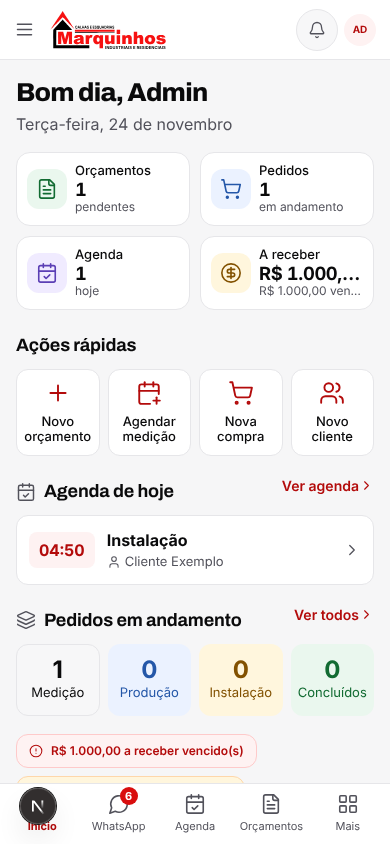
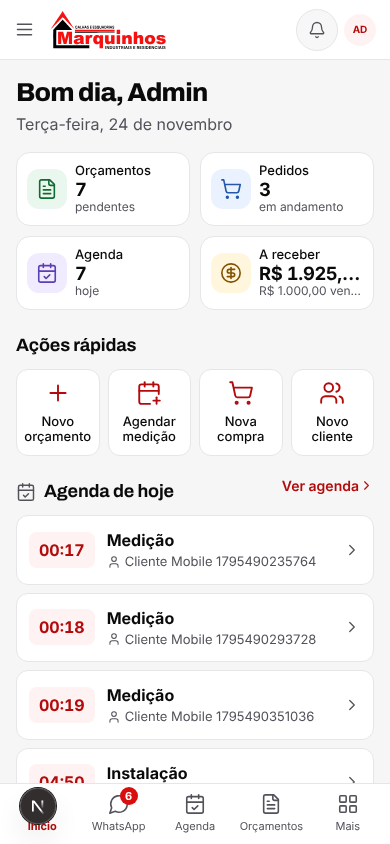
feat(ux): agenda, editor de orçamento e WhatsApp desktop no padrão das referências
- agenda no celular: título com ícone + Agendar, Dia/Semana/Mês, barra de data, cartões com barra colorida, tipo, cliente e botão de local
- editor de calhas: cabeçalho enxuto e barra fixa com total e salvar (cálculo intacto)
- WhatsApp desktop: cabeçalho do chat compacto, nome sempre visível
- correção de overflow a 320px no início

Claude-Session: https://claude.ai/code/session_019r53HgSe1yoioPFHkHVqRt

diff --git a/components/mobile-agenda.tsx b/components/mobile-agenda.tsx
@@ -26,16 +26,16 @@ export function MobileAgenda({cursor,view,events,loading,onCursor,onView,onNew,o
  const cells=Array.from({length:count},(_,i)=>add(start,i));
  function navigate(n:number){onCursor(view==='mes'?new Date(cursor.getFullYear(),cursor.getMonth()+n,1):add(cursor,n*(view==='semana'?7:1)))}
  return <div className="mobile-agenda" data-testid="mobile-agenda">
-  <header className="mobile-agenda-heading"><div><p className="mobile-eyebrow">OPERAÇÃO</p><h1>Agenda</h1><p>Seu dia, com tudo à mão.</p></div><div className="mobile-agenda-heading-actions"><button className="mobile-icon-button" onClick={onReload} disabled={loading} aria-label="Atualizar agenda"><RefreshCw size={19} className={loading?'animate-spin':''}/></button><button className="mobile-icon-button is-primary" onClick={()=>onNew(key)} aria-label="Novo compromisso"><Plus size={23}/></button></div></header>
-  <div className="mobile-agenda-summary"><div><span>Compromissos no dia</span><strong>{all.length}</strong></div><div><span>Concluídos</span><strong>{all.filter(e=>isAgendaDone(e.status)).length}<small>/{all.length}</small></strong></div></div>
-  <div className="mobile-segmented" aria-label="Visualização da agenda">{(['mes','semana','dia'] as View[]).map(v=><button key={v} aria-pressed={v===view} onClick={()=>onView(v)}>{v==='mes'?'Mês':v==='semana'?'Semana':'Dia'}</button>)}</div>
-  <section className="mobile-calendar" aria-label="Calendário"><div className="mobile-calendar-heading"><button className="mobile-icon-button" aria-label="Período anterior" onClick={()=>navigate(-1)}><ChevronLeft size={20}/></button><h2>{cursor.toLocaleDateString('pt-BR',{month:'long',year:'numeric'})}</h2><button className="mobile-icon-button" aria-label="Próximo período" onClick={()=>navigate(1)}><ChevronRight size={20}/></button></div>
-   {view!=='dia'&&<><div className="mobile-calendar-weekdays" aria-hidden="true">{days.map((d,i)=><span key={i}>{d}</span>)}</div><div className="mobile-calendar-days">{cells.map(d=>{const k=dateKey(d),items=byDay.get(k)??[];return <button key={k} className={`mobile-calendar-day${k===key?' is-selected':''}${k===today?' is-today':''}${d.getMonth()!==cursor.getMonth()?' is-outside':''}`} aria-label={`${dateLabel(d)}, ${items.length} compromisso${items.length===1?'':'s'}`} aria-pressed={k===key} onClick={()=>onCursor(d)}><span>{d.getDate()}</span><i aria-hidden="true" className="mobile-day-dots">{items.filter(e=>e.status!=='cancelado').slice(0,3).map(e=><b key={`${e.source}-${e.id}`} data-type={e.type}/>)}</i></button>})}</div></>}
+  <header className="mobile-agenda-heading"><h1><CalendarDays size={26}/>Agenda</h1><div className="mobile-agenda-heading-actions"><button className="mobile-icon-button" onClick={onReload} disabled={loading} aria-label="Atualizar agenda"><RefreshCw size={19} className={loading?'animate-spin':''}/></button><button className="mobile-new-button" onClick={()=>onNew(key)} aria-label="Novo compromisso"><Plus size={19}/>Agendar</button></div></header>
+  <div className="mobile-segmented" aria-label="Visualização da agenda">{(['dia','semana','mes'] as View[]).map(v=><button key={v} aria-pressed={v===view} onClick={()=>onView(v)}>{v==='mes'?'Mês':v==='semana'?'Semana':'Dia'}</button>)}</div>
+  <div className="mobile-date-nav"><button aria-label="Período anterior" onClick={()=>navigate(-1)}><ChevronLeft size={22}/></button><button className="mobile-date-label" onClick={()=>onCursor(new Date())} aria-label="Voltar para hoje"><CalendarDays size={20}/>{view==='dia'?(key===today?'Hoje, ':'')+cursor.toLocaleDateString('pt-BR',{day:'numeric',month:'short',weekday:'short'}).replace('.',''):cursor.toLocaleDateString('pt-BR',{month:'long',year:'numeric'})}</button><button aria-label="Próximo período" onClick={()=>navigate(1)}><ChevronRight size={22}/></button></div>
+  {view!=='dia'&&<section className="mobile-calendar" aria-label="Calendário">
+   <><div className="mobile-calendar-weekdays" aria-hidden="true">{days.map((d,i)=><span key={i}>{d}</span>)}</div><div className="mobile-calendar-days">{cells.map(d=>{const k=dateKey(d),items=byDay.get(k)??[];return <button key={k} className={`mobile-calendar-day${k===key?' is-selected':''}${k===today?' is-today':''}${d.getMonth()!==cursor.getMonth()?' is-outside':''}`} aria-label={`${dateLabel(d)}, ${items.length} compromisso${items.length===1?'':'s'}`} aria-pressed={k===key} onClick={()=>onCursor(d)}><span>{d.getDate()}</span><i aria-hidden="true" className="mobile-day-dots">{items.filter(e=>e.status!=='cancelado').slice(0,3).map(e=><b key={`${e.source}-${e.id}`} data-type={e.type}/>)}</i></button>})}</div></>
    <button className="mobile-calendar-today" onClick={()=>onCursor(new Date())}>Voltar para hoje</button>
-  </section>
+  </section>}
   <div className="mobile-day-heading"><div><p>{key===today?'Hoje':cursor.toLocaleDateString('pt-BR',{weekday:'long'})}</p><h2>{cursor.toLocaleDateString('pt-BR',{day:'numeric',month:'long'})}</h2></div><button onClick={()=>onNew(key)} className="mobile-inline-button"><Plus size={16}/>Agendar</button></div>
   <div className="mobile-agenda-filters" aria-label="Filtrar compromissos">{([['ativos','Pendentes'],['todos','Todos'],['concluidos','Concluídos']] as const).map(([v,label])=><button key={v} aria-pressed={filter===v} onClick={()=>setFilter(v)}>{label}</button>)}</div>
-  <div className="mobile-appointments">{visible.map(e=><button key={`${e.source}-${e.id}`} className="mobile-appointment" data-type={e.type} onClick={()=>onSelect(e)} aria-label={`Abrir compromisso: ${e.title}`}><span className="mobile-appointment-time">{time(e.starts_at)}<i/></span><span className="mobile-appointment-info"><small>{typeLabels[e.type]??'Compromisso'}</small><strong>{e.title}</strong>{e.client_name&&e.client_name!==e.title&&<span>{e.client_name}</span>}<em>{statuses[e.status]??e.status.replaceAll('_',' ')}</em>{e.responsible_name&&<span className="mobile-appointment-owner"><User size={12}/>{e.responsible_name}</span>}</span><ChevronRight size={17}/></button>)}{!visible.length&&<div className="mobile-agenda-empty"><CalendarDays size={26}/><h3>{all.length?'Nenhum compromisso neste filtro':'Seu dia está livre'}</h3><p>{all.length?'Toque em Todos para ver os outros compromissos.':'Agende uma medição, instalação ou tarefa para este dia.'}</p><button className="mobile-inline-button" onClick={()=>all.length?setFilter('todos'):onNew(key)}>{all.length?'Ver todos':'Agendar compromisso'}</button></div>}</div>
+  <div className="mobile-appointments">{visible.map(e=><div key={`${e.source}-${e.id}`} className="mobile-appointment" data-type={e.type}><button className="mobile-appointment-open" onClick={()=>onSelect(e)} aria-label={`Abrir compromisso: ${e.title}`}><span className="mobile-appointment-time">{time(e.starts_at)}</span><span className="mobile-appointment-info"><strong>{typeLabels[e.type]??'Compromisso'}</strong>{e.client_name&&<span><User size={14}/>{e.client_name}</span>}{e.title&&e.title!==(typeLabels[e.type]??'')&&e.title!==e.client_name&&<small>{e.title}</small>}<em>{statuses[e.status]??e.status.replaceAll('_',' ')}</em></span></button><button className="mobile-appointment-pin" onClick={()=>onSelect(e)} aria-label={`Ver local e contato: ${e.title}`}><MapPin size={20}/></button></div>)}{!visible.length&&<div className="mobile-agenda-empty"><CalendarDays size={26}/><h3>{all.length?'Nenhum compromisso neste filtro':'Seu dia está livre'}</h3><p>{all.length?'Toque em Todos para ver os outros compromissos.':'Agende uma medição, instalação ou tarefa para este dia.'}</p><button className="mobile-inline-button" onClick={()=>all.length?setFilter('todos'):onNew(key)}>{all.length?'Ver todos':'Agendar compromisso'}</button></div>}</div>
  </div>
 }
 export function MobileEventSheet({event,onClose,onStatusChange}:{event:AgendaEvent;onClose:()=>void;onStatusChange:(id:string,status:string)=>Promise<void>}){

diff --git a/app/mobile.css b/app/mobile.css
@@ -140,7 +140,7 @@
  .mobile-agenda-summary small { color: var(--text-muted); font-size: 16px; font-weight: 500; margin-left: 3px; }
  .mobile-segmented { display: flex; padding: 5px; gap: 4px; background: var(--surface); border: 1px solid var(--border); border-radius: 17px; margin-bottom: 16px; }
  .mobile-segmented > button { flex: 1; min-height: 42px; border-radius: 12px; font-size: 13px; font-weight: 650; color: var(--text-muted); }
- .mobile-segmented > button[aria-pressed=true] { background: var(--text); color: var(--surface); }
+ .mobile-segmented > button[aria-pressed=true] { background: var(--brand-strong); color: var(--on-brand); }
  .mobile-calendar { border-radius: 23px; border: 1px solid var(--border); background: var(--surface); padding: 10px 8px 7px; }
  .mobile-calendar-heading { display: flex; align-items: center; justify-content: space-between; gap: 8px; padding: 0 2px 8px; }
  .mobile-calendar-heading h2 { font-size: 16px; font-weight: 750; text-transform: capitalize; }
@@ -265,4 +265,57 @@
 @media screen and (max-width: 767px) {
  .mobile-quote-workspace > section { display: none; }
  .mobile-quote-workspace header .login-kicker { display: none; }
+}
+
+/* Agenda no celular: cabeçalho, segmentos, barra de data e cartões como nas referências. */
+@media screen and (max-width: 767px) {
+ .mobile-agenda-heading { margin-bottom: 14px; }
+ .mobile-agenda-heading h1 { display: flex; align-items: center; gap: 10px; margin: 0; font-size: 22px; font-weight: 800; }
+ .mobile-agenda-heading h1 svg { color: var(--text-muted); }
+ .mobile-new-button { display: inline-flex; align-items: center; gap: 6px; min-height: 44px; padding: 0 16px; border-radius: 12px; background: var(--brand-strong); color: var(--on-brand); font-size: 15px; font-weight: 700; }
+ .mobile-segmented { border-radius: 12px; margin-bottom: 12px; }
+ .mobile-segmented > button { border-radius: 9px; }
+ .mobile-segmented > button[aria-pressed=true] { background: var(--brand-strong); color: var(--on-brand); }
+ .mobile-date-nav { display: flex; align-items: center; justify-content: space-between; min-height: 52px; margin-bottom: 12px; border: 1px solid var(--border); border-radius: 12px; background: var(--surface); }
+ .mobile-date-nav > button { display: inline-flex; align-items: center; justify-content: center; min-width: 48px; min-height: 48px; color: var(--text); }
+ .mobile-date-label { flex: 1; gap: 8px; font-size: 16px; font-weight: 700; text-transform: capitalize; }
+ .mobile-calendar { border-radius: 12px; margin-bottom: 12px; }
+ .mobile-day-heading { margin: 14px 0 8px; }
+ .mobile-agenda-filters button[aria-pressed=true] { background: var(--brand-strong); border-color: var(--brand-strong); color: var(--on-brand); }
+ .mobile-appointments { gap: 10px; }
+ .mobile-appointment { position: relative; display: flex; align-items: stretch; gap: 0; padding: 0; overflow: hidden; border: 1px solid var(--border); border-radius: 12px; background: var(--surface); }
+ .mobile-appointment::before { content: ''; width: 4px; flex-shrink: 0; background: var(--agenda-blue); }
+ .mobile-appointment[data-type=instalacao]::before { background: #27aa77; }
+ .mobile-appointment[data-type=reuniao]::before { background: #ab78e8; }
+ .mobile-appointment[data-type=producao]::before { background: #e8892a; }
+ .mobile-appointment[data-type=compra]::before { background: #d6a400; }
+ .mobile-appointment-open { display: flex; align-items: flex-start; gap: 14px; flex: 1; min-width: 0; padding: 14px 8px 14px 12px; text-align: left; }
+ .mobile-appointment-time { min-width: 52px; font-size: 18px; font-weight: 700; font-variant-numeric: tabular-nums; }
+ .mobile-appointment-info { display: flex; flex-direction: column; align-items: flex-start; gap: 4px; min-width: 0; flex: 1; }
+ .mobile-appointment-info > strong { font-size: 17px; font-weight: 700; }
+ .mobile-appointment-info > span { display: flex; align-items: center; gap: 5px; font-size: 14px; color: var(--text-muted); }
+ .mobile-appointment-info > small { font-size: 13px; color: var(--text-muted); text-transform: none; letter-spacing: 0; }
+ .mobile-appointment-pin { display: inline-flex; align-items: center; justify-content: center; align-self: center; width: 44px; height: 44px; margin-right: 10px; border: 1px solid var(--border); border-radius: 10px; background: var(--surface-2); color: var(--text-muted); flex-shrink: 0; }
+}
+@media screen and (max-width: 767px) {
+ .agenda-stack { display: flex; flex-direction: column; }
+ .agenda-stack > .agenda-after { order: 2; margin-top: 18px; }
+}
+
+/* Editor de orçamento no celular: cabeçalho enxuto e barra fixa com total e salvar (layout apenas; cálculo intacto). */
+@media screen and (max-width: 767px) {
+ .quote-editor-head { margin-bottom: 12px; gap: 0; }
+ .quote-editor-head p, .quote-editor-head > span { display: none; }
+ .quote-editor-head h1 { margin: 0; font-size: 24px; }
+ .quote-save-bar { position: fixed; left: 0; right: 0; bottom: calc(60px + env(safe-area-inset-bottom)); z-index: 24; display: flex; align-items: center; justify-content: space-between; gap: 12px; padding: 10px 16px; border-top: 1px solid var(--border); background: var(--surface); }
+ .quote-save-total { min-width: 0; }
+ .quote-save-total p:first-child { font-size: 11px; }
+ .quote-save-total p:last-child { margin: 0; font-size: 20px; line-height: 1.2; white-space: nowrap; }
+ .quote-save-bar > .button { width: auto; flex-shrink: 0; min-height: 46px; padding: 0 18px; }
+ .quote-save-bar { margin: 0; }
+ .app-content:has(.quote-save-bar) { padding-bottom: calc(150px + env(safe-area-inset-bottom)); }
+}
+@media screen and (max-width: 767px) {
+ .mh-list > li, .mh-event { min-width: 0; max-width: 100%; }
+ .mh-kpis > a, .mh-actions > a, .mh-stages > a { min-width: 0; }
 }

diff --git a/components/atendimento-page.tsx b/components/atendimento-page.tsx
@@ -536,22 +536,22 @@ function Conversa({ detail, aiActive, officialWindow, visible, labels, onBack, o
           className={cn("hidden items-center gap-1 rounded-full px-3 py-1.5 text-xs font-bold md:flex", c.aiPaused ? "wa-chip" : "wa-send")}
           title={c.aiPaused ? "A Lia volta a responder este cliente" : "Você assume e a Lia para de responder"}
         >
-          <Bot className="h-4 w-4" /> <span className="hidden sm:inline">{c.aiPaused ? "Devolver p/ Lia" : "Assumir"}</span>
+          <Bot className="h-4 w-4" /> <span className="hidden 2xl:inline">{c.aiPaused ? "Devolver p/ Lia" : "Assumir"}</span>
         </button>
         <select value={c.status} disabled={mudandoStatus} aria-label="Status da conversa" onChange={(e) => mudarStatus(e.target.value as ConversationStatus)}
-          className="wa-chip hidden rounded-full px-2 py-1.5 text-xs font-bold lg:block">
+          className="wa-chip hidden rounded-full px-2 py-1.5 text-xs font-bold 2xl:block">
           {Object.entries(STATUS_LABEL).map(([k, l]) => <option key={k} value={k}>{l}</option>)}
         </select>
         <LabelMenu conversationId={c.id} current={labels} onChanged={onChanged} />
         {c.phone && !c.phone.includes("@") && <a href={`tel:+${c.phone.replace(/\D/g, "")}`} className="wa-row wa-muted rounded-full p-2" title="Ligar" aria-label={`Ligar para ${c.name}`}><Phone className="h-5 w-5" /></a>}
 <div className="hidden items-center gap-0.5 md:flex">
-        <button onClick={() => setTransferir(v => !v)} className="wa-row wa-muted rounded-full p-2" title="Transferir conversa" aria-label="Transferir conversa"><ArrowRightLeft className="h-4 w-4" /></button>
+        <button onClick={() => setTransferir(v => !v)} className="wa-row wa-muted hidden rounded-full p-2 2xl:block" title="Transferir conversa" aria-label="Transferir conversa"><ArrowRightLeft className="h-4 w-4" /></button>
         <button aria-label="Pesquisar nesta conversa" title="Pesquisar nesta conversa" onClick={() => { setPesquisando(v => !v); setBuscaMensagem(""); }} className="wa-row wa-muted rounded-full p-2"><Search className="h-4 w-4" /></button>
-        <button aria-label="Marcar como não lida" title="Marcar como não lida" onClick={onUnread} className="wa-row wa-muted rounded-full p-2"><Mail className="h-4 w-4" /></button>
+        <button aria-label="Marcar como não lida" title="Marcar como não lida" onClick={onUnread} className="wa-row wa-muted hidden rounded-full p-2 2xl:block"><Mail className="h-4 w-4" /></button>
         <button
           disabled={arquivando}
           onClick={() => startArquivo(async () => { const r = await setConversationArchived(c.id, !c.archived); setErro(r.error ?? null); onChanged(); })}
-          className="wa-row wa-muted hidden rounded-full p-2 sm:block"
+          className="wa-row wa-muted hidden rounded-full p-2 2xl:block"
           title={c.archived ? "Desarquivar conversa" : "Arquivar conversa"} aria-label={c.archived ? "Desarquivar conversa" : "Arquivar conversa"}
         >
           {c.archived ? <ArchiveRestore className="h-4 w-4" /> : <Archive className="h-4 w-4" />}
@@ -559,7 +559,7 @@ function Conversa({ detail, aiActive, officialWindow, visible, labels, onBack, o
         <button onClick={onPanel} aria-label="Abrir ficha do cliente" title="Ficha do cliente" className="wa-row wa-muted rounded-full p-2"><PanelRightOpen className="h-4 w-4" /></button>
         </div>
         <DropdownMenu.Root>
-          <DropdownMenu.Trigger asChild><button aria-label="Mais ações da conversa" className="wa-row wa-muted rounded-full p-2 md:hidden"><MoreVertical className="h-5 w-5" /></button></DropdownMenu.Trigger>
+          <DropdownMenu.Trigger asChild><button aria-label="Mais ações da conversa" className="wa-row wa-muted rounded-full p-2 2xl:hidden"><MoreVertical className="h-5 w-5" /></button></DropdownMenu.Trigger>
           <DropdownMenu.Portal><DropdownMenu.Content align="end" sideOffset={4} className="z-50 min-w-56 rounded-xl border border-sand bg-surface p-1.5 text-sm text-ink shadow-xl">
             <DropdownMenu.Item onSelect={onPanel} className="flex cursor-pointer items-center gap-3 rounded-lg px-3 py-2.5 outline-none focus:bg-cream"><PanelRightOpen className="h-4 w-4" />Ficha do cliente</DropdownMenu.Item>
             {(aiActive || !c.aiPaused) && <DropdownMenu.Item onSelect={() => startIa(async () => { const r = await setConversationAi(c.id, c.aiPaused); setErro(r.error ?? null); onChanged(); })} className="flex cursor-pointer items-center gap-3 rounded-lg px-3 py-2.5 outline-none focus:bg-cream"><Bot className="h-4 w-4" />{c.aiPaused ? "Devolver para a Lia" : "Assumir conversa"}</DropdownMenu.Item>}

diff --git a/components/gutter-quote.tsx b/components/gutter-quote.tsx
@@ -386,7 +386,7 @@ export function GutterQuote({
 
   return (
     <div className="mx-auto max-w-[1400px]">
-      <div className="mb-7 flex flex-col justify-between gap-3 sm:flex-row sm:items-end">
+      <div className="quote-editor-head mb-7 flex flex-col justify-between gap-3 sm:flex-row sm:items-end">
         <div>
           <p className="text-xs font-bold uppercase tracking-[.22em] text-forest">Calculadora técnica</p>
           <h1 className="mt-2 text-3xl font-black">
@@ -593,14 +593,16 @@ export function GutterQuote({
                 onChange={e => setInstallationDeadline(e.target.value)}
                 placeholder="Ex: Até 15 dias após aprovação" />
             </div>
-            <div className="border-t pt-4">
-              <p className="text-xs font-bold uppercase tracking-wider text-ink/45">Total</p>
-              <p className="mt-1 text-3xl font-black text-forest">{money(total)}</p>
-            </div>
             {saveProblem && <p className="rounded-xl bg-red-50 p-3 text-sm text-red-700">{saveProblem}</p>}
-            <SubmitButton disabled={!clientId || total <= 0 || !!saveProblem || (items.length === 0 && specialItems.length === 0)} className="button w-full">
-              <Save className="h-4 w-4" />Salvar orçamento
-            </SubmitButton>
+            <div className="quote-save-bar border-t pt-4">
+              <div className="quote-save-total">
+                <p className="text-xs font-bold uppercase tracking-wider text-ink/45">Total do orçamento</p>
+                <p className="mt-1 text-3xl font-black text-forest">{money(total)}</p>
+              </div>
+              <SubmitButton disabled={!clientId || total <= 0 || !!saveProblem || (items.length === 0 && specialItems.length === 0)} className="button w-full">
+                <Save className="h-4 w-4" />Salvar orçamento
+              </SubmitButton>
+            </div>
           </div>
         </aside>
       </form>

diff --git a/app/(crm)/[[...path]]/page.tsx b/app/(crm)/[[...path]]/page.tsx
@@ -198,7 +198,7 @@ export default async function CatchAll({ params, searchParams }: { params: Promi
   if (path[0] === "auditoria") return <AuditLogPage tableFilter={(search as { tabela?: string }).tabela} />;
   if (path[0] === "pendencias") return <PendingCenter category={(search as { categoria?: string }).categoria} />;
   if (path[0] === "agenda") {
-    try { return <><div className="mb-4"><OperationalIndicators /></div><OperationalPending /><AgendaPage initialEvents={await getAgendaEvents()} /></>; }
+    try { return <div className="agenda-stack"><div className="agenda-after mb-4"><OperationalIndicators /></div><div className="agenda-after"><OperationalPending /></div><AgendaPage initialEvents={await getAgendaEvents()} /></div>; }
     catch { return <AgendaPage initialEvents={[]} initialError="Não foi possível carregar a agenda. Verifique a conexão e as migrações." />; }
   }
   if (path[0] === "busca") return <GlobalSearch query={search.q} />;

diff --git a/components/agenda-page.tsx b/components/agenda-page.tsx
@@ -66,7 +66,7 @@ function fmtDate(iso: string) { const d = new Date(iso); return `${DAYS_PT[d.get
 export function AgendaPage({ initialEvents, initialError = "" }: { initialEvents: AgendaEvent[]; initialError?: string }) {
   const mobile=useMobile();
   const [view, setView] = useState<View>("mes");
-  const [mobileView,setMobileView]=useState<View>("semana");
+  const [mobileView,setMobileView]=useState<View>("dia");
   const [cursor, setCursor] = useState(new Date());
   const [events, setEvents] = useState<AgendaEvent[]>(initialEvents);
   const [selected, setSelected] = useState<AgendaEvent | null>(null);

diff --git a/app/globals.css b/app/globals.css
@@ -565,3 +565,4 @@ input:focus, select:focus, textarea:focus { border-color: var(--brand); box-shad
 .wa-inbox .wa-tab { padding: 10px 0; font-size: 14px; color: var(--text-muted); border-bottom: 2px solid transparent; margin-bottom: -1px; }
 .wa-inbox .wa-tab[aria-selected="true"] { color: var(--brand-text); border-bottom-color: var(--brand); font-weight: 700; }
 .wa-inbox .wa-info-card { border: 1px solid var(--border); border-radius: 12px; padding: 14px; background: var(--surface); }
+.wa-inbox textarea::placeholder { white-space: nowrap; overflow: hidden; text-overflow: ellipsis; }
